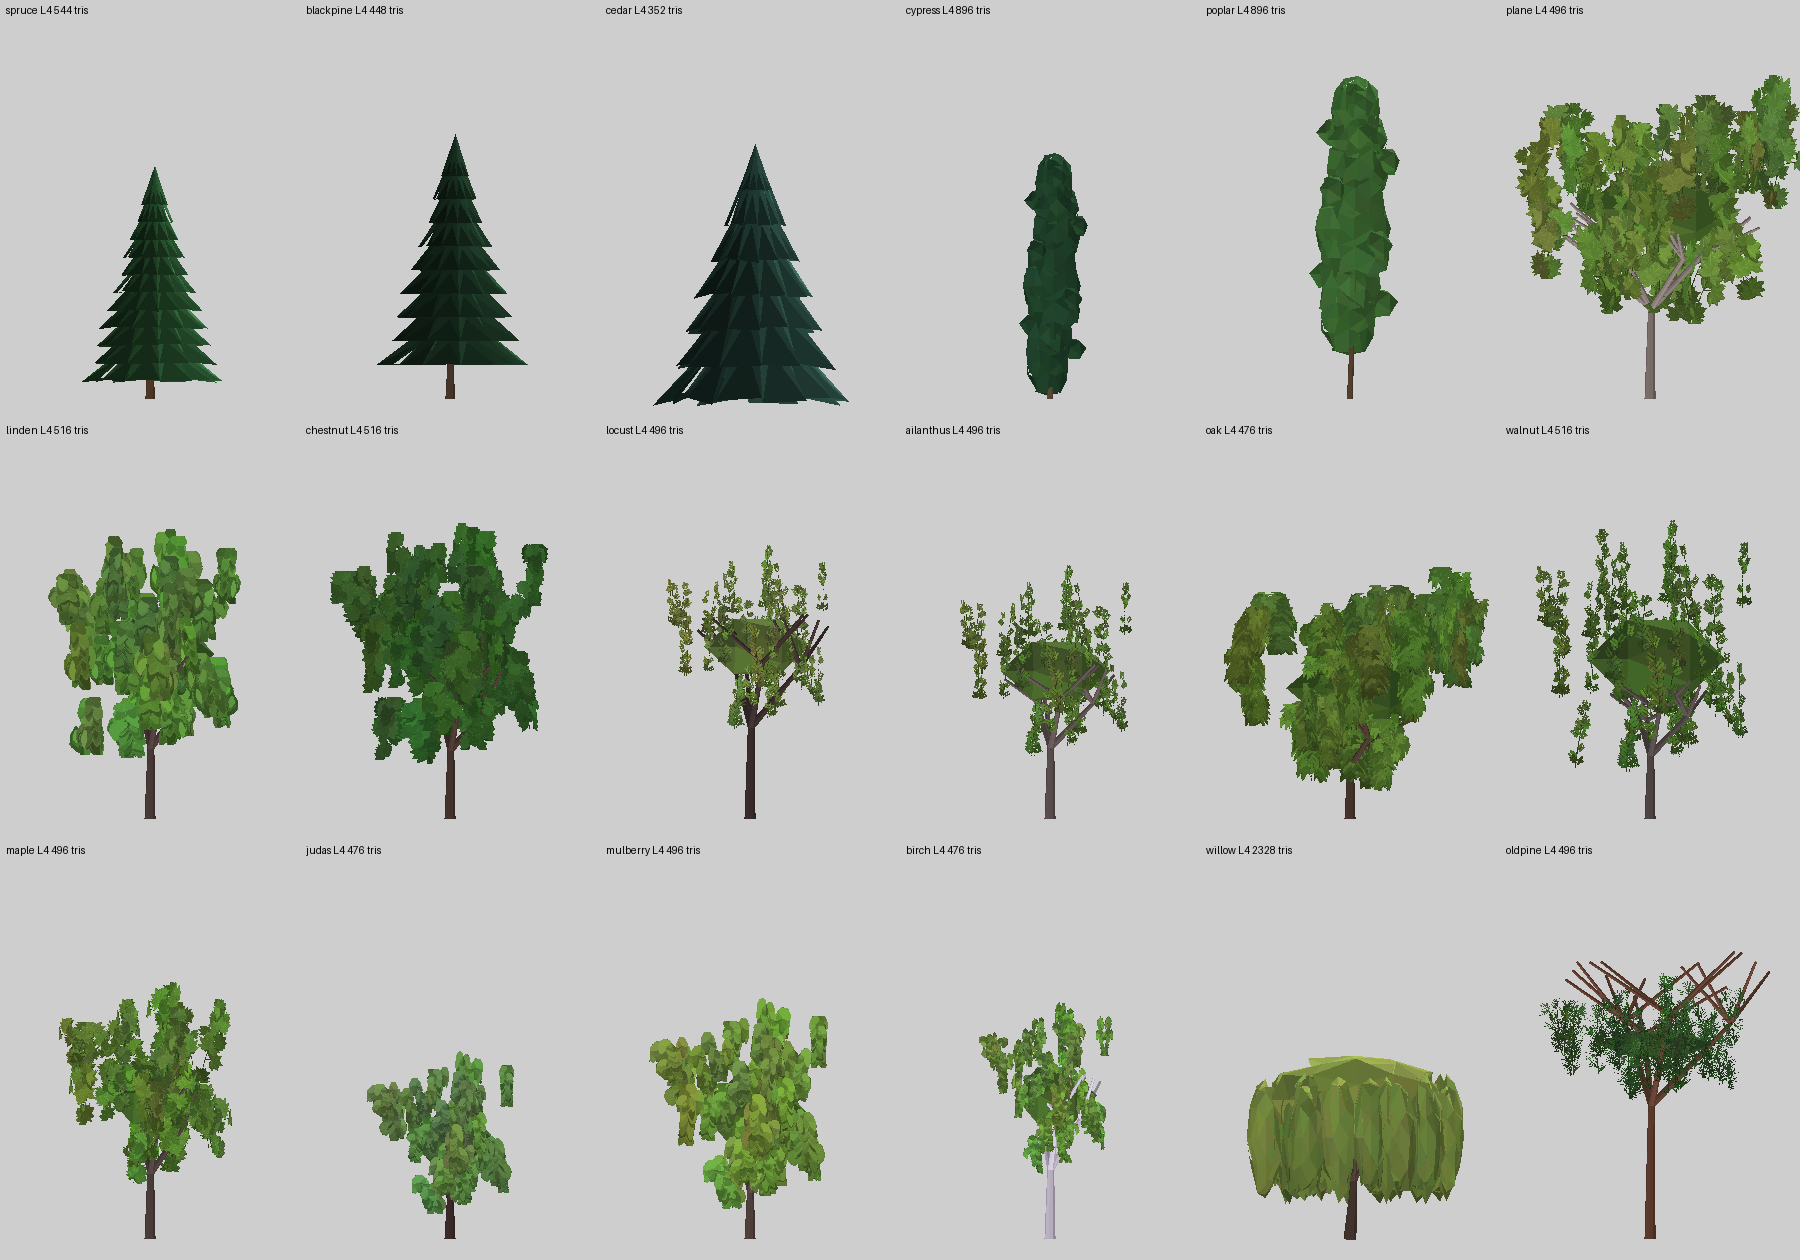
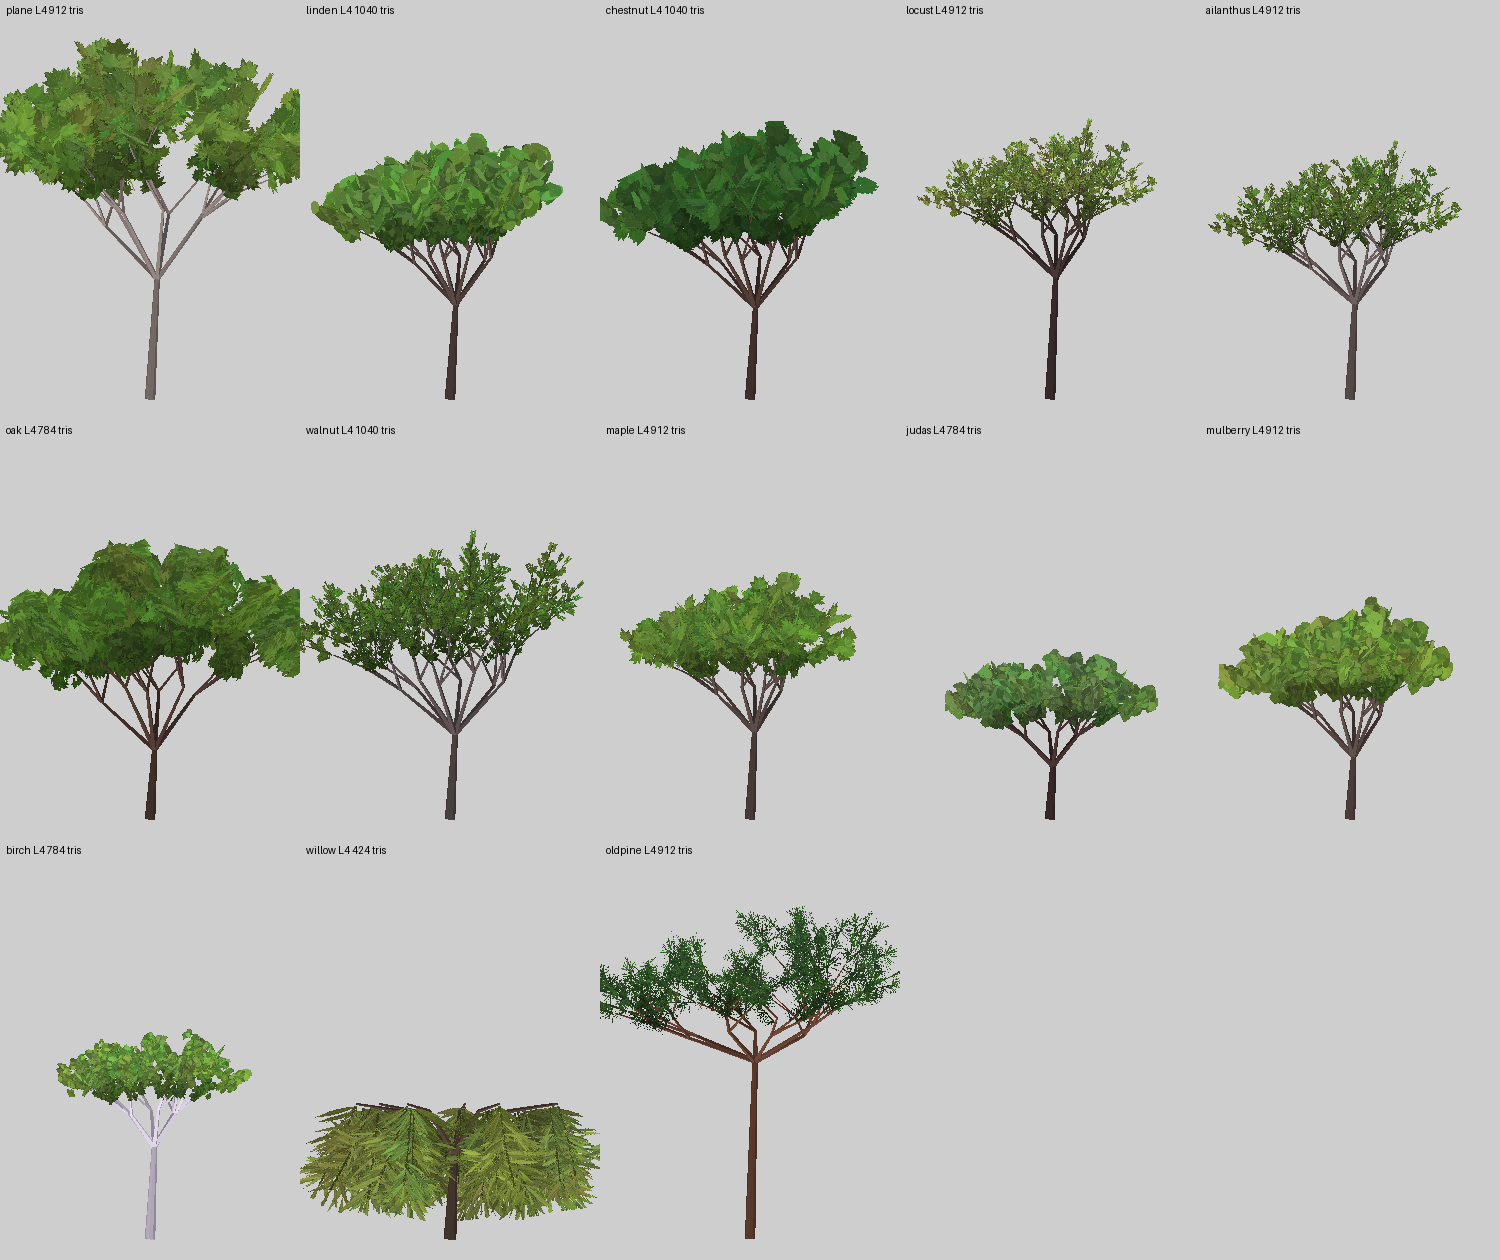
Draft: tree sprites rooted on branch skeleton, no central bulb
Claude-Session: https://claude.ai/code/session_01RNafSh7hv1irvjEfL1pZuX

diff --git a/drafts/tree_lod/tree_lod.py b/drafts/tree_lod/tree_lod.py
@@ -4,6 +4,35 @@ import math, random, sys
 import numpy as np
 from PIL import Image, ImageDraw
 
+def unit(v): v = np.array(v, float); return v/(np.linalg.norm(v)+1e-9)
+
+def anchor_cards(m, base, d, size, col, rnd, kind, n=2, shade=1.0):
+    """Sprites rooted at a branch tip: the twig at the card's bottom edge starts exactly on the branch, the cluster grows along d."""
+    d = unit(d); ref = np.array([0, 1., 0]) if abs(d[1]) < .9 else np.array([1., 0, 0]); r1 = unit(np.cross(d, ref)); r2 = unit(np.cross(d, r1))
+    a0 = rnd.uniform(0, 3.14)
+    for i in range(n):
+        a = a0+math.pi*i/n; right = (r1*math.cos(a)+r2*math.sin(a))*size*.55*rnd.uniform(.85, 1.15)
+        dd = unit(d+rnd.uniform(-.25, .25)*r1+rnd.uniform(-.25, .25)*r2)
+        card(m, base, right, dd*size*.5*rnd.uniform(.9, 1.15), (kind, rnd.randint(0, 3)), tuple(int(c*shade) for c in jit(col, rnd, .1)))
+
+def crown_tree(m, top, cr, ch, nl, spr, lvl, rnd, bark, col, kind, droop=0.0, low=False):
+    """Limbs fan out of the trunk top, split twice; every tip (and some mid-limb points) carries a rooted sprite cluster."""
+    ns = 4; depth = 1 if lvl == 3 else 2; top = np.array(top, float)
+    def limb(p, d, ln, r, dp):
+        e = p+d*ln; cyl(m, p, e, r, r*.6, ns, bark)
+        if dp == 0:
+            f = (np.linalg.norm((e-top)*[1, 1.6, 1])/(cr*1.1+1e-9)); anchor_cards(m, e, d+np.array([0, droop, 0]), cr*.55, col, rnd, kind, 2 if lvl == 3 else 3, .75+.3*min(1, f)); return
+        if dp == 1 and lvl == 4:                            # mid-limb sprites on the last-but-one segments
+            anchor_cards(m, p+(e-p)*.7, unit(d+np.array([0, .3, 0])+np.array([rnd.uniform(-.6, .6), 0, rnd.uniform(-.6, .6)])), cr*.4, col, rnd, kind, 2, .7)
+        for k in range(2 if dp <= 1 else 3):
+            a = rnd.uniform(0, 6.28); t = rnd.uniform(.5, .95)
+            nd = unit(d*math.cos(t)+np.array([math.cos(a), 0, math.sin(a)])*math.sin(t)+np.array([0, .15, 0]))
+            limb(e, nd, ln*rnd.uniform(.62, .78), r*.62, dp-1)
+    for i in range(nl):
+        a = 6.28*i/nl+rnd.uniform(-.3, .3); el = rnd.uniform(.6, 1.1) if not low else rnd.uniform(.2, .5)
+        d = unit([math.cos(a)*math.cos(el)*spr*1.2, math.sin(el)+.2, math.sin(a)*math.cos(el)*spr*1.2])
+        limb(top, d, cr*(.62 if not low else .7), .13, depth)
+
 LEAFKIND = {"willow": "narrow"}
 def _leaf_pts(kind, ln, wd, r):
     """Outline of one leaf, base at (0,0) pointing +x, as polygon points."""
@@ -26,7 +55,7 @@ def leaf_tex(kind, variant, n=192):
     def rot(pts, ox, oy, a): ca, sa = math.cos(a), math.sin(a); return [(ox+ca*x-sa*y, oy+sa*x+ca*y) for x, y in pts]
     def twig(x0, y0, ang, ln, lvl):                        # recursive twig; leaves sit on the tips and along it
         x1, y1 = x0+math.cos(ang)*ln, y0+math.sin(ang)*ln
-        dl.line([(x0, y0), (x1, y1)], fill=55, width=max(2, int(5-lvl*1.6))); da.line([(x0, y0), (x1, y1)], fill=255, width=max(2, int(5-lvl*1.6)))
+        dl.line([(x0, y0), (x1, y1)], fill=60, width=max(3, int(8-lvl*2.6))); da.line([(x0, y0), (x1, y1)], fill=255, width=max(3, int(8-lvl*2.6)))
         return x1, y1
     sz = {"palmate": (.2, .2), "palmcomp": (.22, .2), "round": (.14, .13), "ovate": (.17, .15), "lobed": (.2, .13), "serrate": (.11, .09), "narrow": (.26, .05), "pinnate": (.07, .05), "needles": (.2, .012)}[kind]
     dens = r.randint(26, 42) if kind not in ("pinnate", "needles", "palmate", "palmcomp") else r.randint(7, 12)
@@ -183,7 +212,7 @@ SPECIES = {   # Skopje / Balkan street, park, riverside and hill trees
  "judas":    dict(kind="broad", bark=(72,56,48), pal=[(86,130,70),(94,138,74)], h=(5,8), rad=(2.4,3.4), ry=.8, tf=.3, lumps=(4,6), spread=(.9,1.2), fall=[(220,190,70),(200,150,60)], leaf="round"),
  "mulberry": dict(kind="broad", bark=(98,84,70), pal=[(100,144,60),(110,152,64)], h=(6,10), rad=(3,4.2), ry=.85, tf=.3, lumps=(5,7), spread=(.8,1.1), fall=[(220,200,70)], leaf="round"),
  "birch":    dict(kind="broad", bark=(228,228,220), pal=[(96,150,64),(110,160,70)], h=(8,12), rad=(2.4,3.3), ry=.9, tf=.38, lumps=(4,6), spread=(.7,1.0), fall=[(220,190,60)], leaf="serrate"),
- "willow":   dict(kind="weep", bark=(86,72,54), pal=[(120,150,70),(132,158,76)], h=(7,11), rad=(3.4,4.6), tf=.3, fall=[(200,180,70)]),
+ "willow":   dict(kind="weep", bark=(86,72,54), pal=[(120,150,70),(132,158,76)], h=(9,13), rad=(3.2,4.2), tf=.42, fall=[(200,180,70)]),
  "oldpine":  dict(kind="broad", bark=(110,76,52), pal=[(58,104,56),(66,112,58)], h=(9,14), rad=(3.5,4.8), ry=.28, tf=.68, lumps=(5,7), spread=(1.0,1.4), leaf="needles"),
  "dead":     dict(kind="dead", bark=(80,66,54), h=(5,9), rad=(1.6,2.6), tf=.5),
 }
@@ -245,6 +274,15 @@ def tree(species, lvl, seed=7, season=0, cards=True):
     elif k == "weep":
         th = H*p["tf"]; cyl(m, (0,0,0), (lx, th, lz), .3, .16, ns, bark)
         if lvl == 1: blob(m, (lx, th+R*.45, lz), R, R*.9, R, 0, col, rnd)
+        elif cards and lvl >= 3:
+            top = np.array((lx, th, lz)); cyl(m, (0,0,0), top, .3, .16, ns, bark)
+            for i in range(8 if lvl == 3 else 10):            # limbs arch up and out, then curtains of narrow-leaf sprites hang from them
+                a = 6.28*i/(8 if lvl == 3 else 10)+rnd.uniform(-.2, .2); d = unit([math.cos(a)*.9, 1.0, math.sin(a)*.9]); e = top+d*R*.8; e2 = e+unit([math.cos(a), .15, math.sin(a)])*R*.55
+                cyl(m, top, e, .14, .09, ns, bark); cyl(m, e, e2, .09, .05, ns, bark)
+                for q in range(2 if lvl == 3 else 3):
+                    f = (q+1)/(2 if lvl == 3 else 3); pt = e+(e2-e)*f; anchor_cards(m, pt, (math.cos(a)*.15, -1, math.sin(a)*.15), R*1.1, col, rnd, "narrow", 2, .7+.3*f)
+        elif lvl == 2:
+            blob(m, (lx, th+R*.85, lz), R*.85, R*.5, R*.85, 1, col, rnd, .15)
         else:
             nb = (0, 4, 6, 9)[lvl-1]
             blob(m, (lx, th+R*.85, lz), R*.85, R*.5, R*.85, 1, col, rnd, .15)
@@ -266,19 +304,8 @@ def tree(species, lvl, seed=7, season=0, cards=True):
         th = H*p["tf"]; cr = R; ch = cr*p["ry"]*p["aspect"]
         cx, cz = lx+ax*.3, lz+az*.3; cy = th+ch*.85
         if cards and lvl >= 3:
-            ts = p.get('leaf', 'ovate')
-            if lvl == 3:
-                cyl(m, (0,0,0), (lx, th+.8, lz), .24, .1, ns, bark)
-                blob(m, (cx, cy, cz), cr*.7, ch*.55, cr*.7, 0, mix(col, (30, 50, 25), .35), rnd)       # dark inner core so the sprites don't show daylight
-                for i in range(p["nl"]*3):
-                    a = rnd.uniform(0, 6.28); d = cr*rnd.uniform(.35, 1.0)*p["spr"]**.2; y = cy+rnd.uniform(-.7, .8)*ch
-                    cards_at(m, (cx+math.cos(a)*d, y, cz+math.sin(a)*d), cr*.75, 2, col, rnd, ts)
-            else:
-                branches(m, (0,0,0), (lx*.05, 1, lz*.05), th*.75+.4, .26, 2, rnd, bark, col, 8, -1, 0, p["spr"]*.95, 3 if p["nl"] < 6 else 4)
-                blob(m, (cx, cy, cz), cr*.6, ch*.45, cr*.6, 0, mix(col, (30, 50, 25), .35), rnd)
-                for i in range(p["nl"]*5):
-                    a = rnd.uniform(0, 6.28); d = cr*rnd.uniform(.2, 1.05)*p["spr"]**.2; y = cy+rnd.uniform(-.8, .9)*ch
-                    cards_at(m, (cx+math.cos(a)*d, y, cz+math.sin(a)*d), cr*.6, 2, col, rnd, ts)
+            top = (lx, th+.5, lz); cyl(m, (0,0,0), top, .25, .13, ns, bark)
+            crown_tree(m, top, cr, ch, p["nl"], p["spr"], lvl, rnd, bark, col, p.get('leaf', 'ovate'), low=(species == "oldpine"))
         elif lvl == 1:
             cyl(m, (0,0,0), (lx, th, lz), .17, .12, ns, bark); blob(m, (cx, cy, cz), cr, ch, cr, 0, col, rnd)
         elif lvl == 2:
